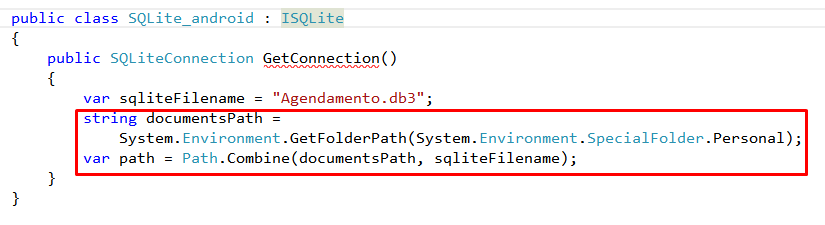
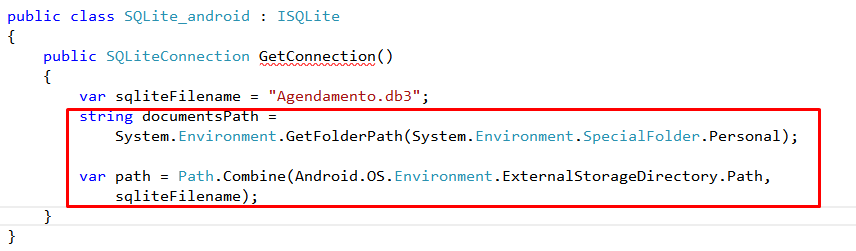
Roteiro - Aula 5 - finalizado

diff --git a/Aulas/TestDrive2/TestDrive2/TestDrive2.Droid/SQLite_android.cs b/Aulas/TestDrive2/TestDrive2/TestDrive2.Droid/SQLite_android.cs
@@ -23,9 +23,11 @@ namespace TestDrive2.Droid
         public SQLiteConnection GetConnection()
         {
             var sqliteFilename = "Agendamento.db3";
-            string documentsPath = 
+            string documentsPath =
                 System.Environment.GetFolderPath(System.Environment.SpecialFolder.Personal);
-            var path = Path.Combine(documentsPath, sqliteFilename);
+
+            var path = Path.Combine(Android.OS.Environment.ExternalStorageDirectory.Path, 
+                sqliteFilename);
 
             return new SQLite.SQLiteConnection(path);
         }
